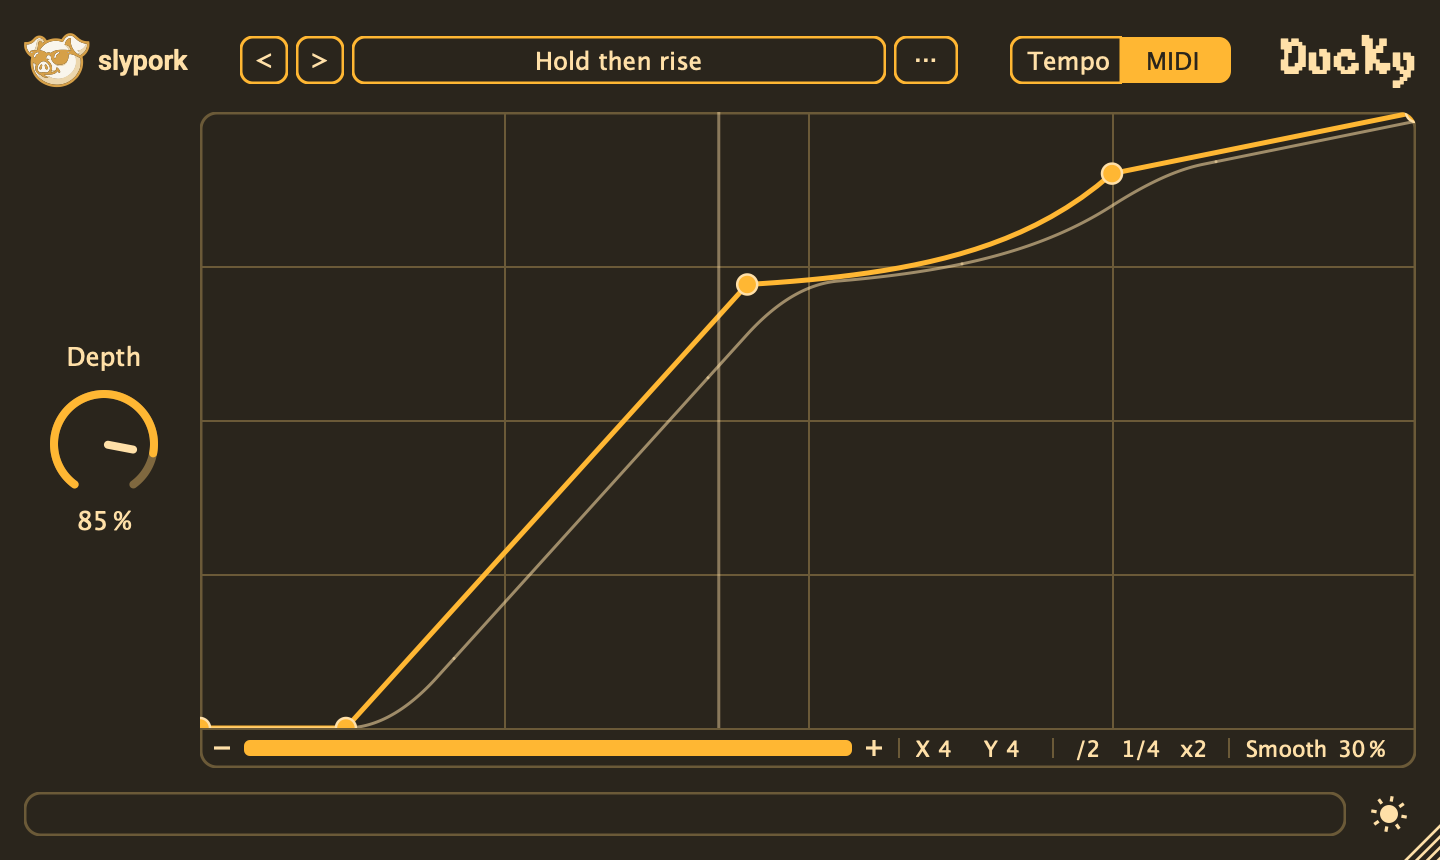
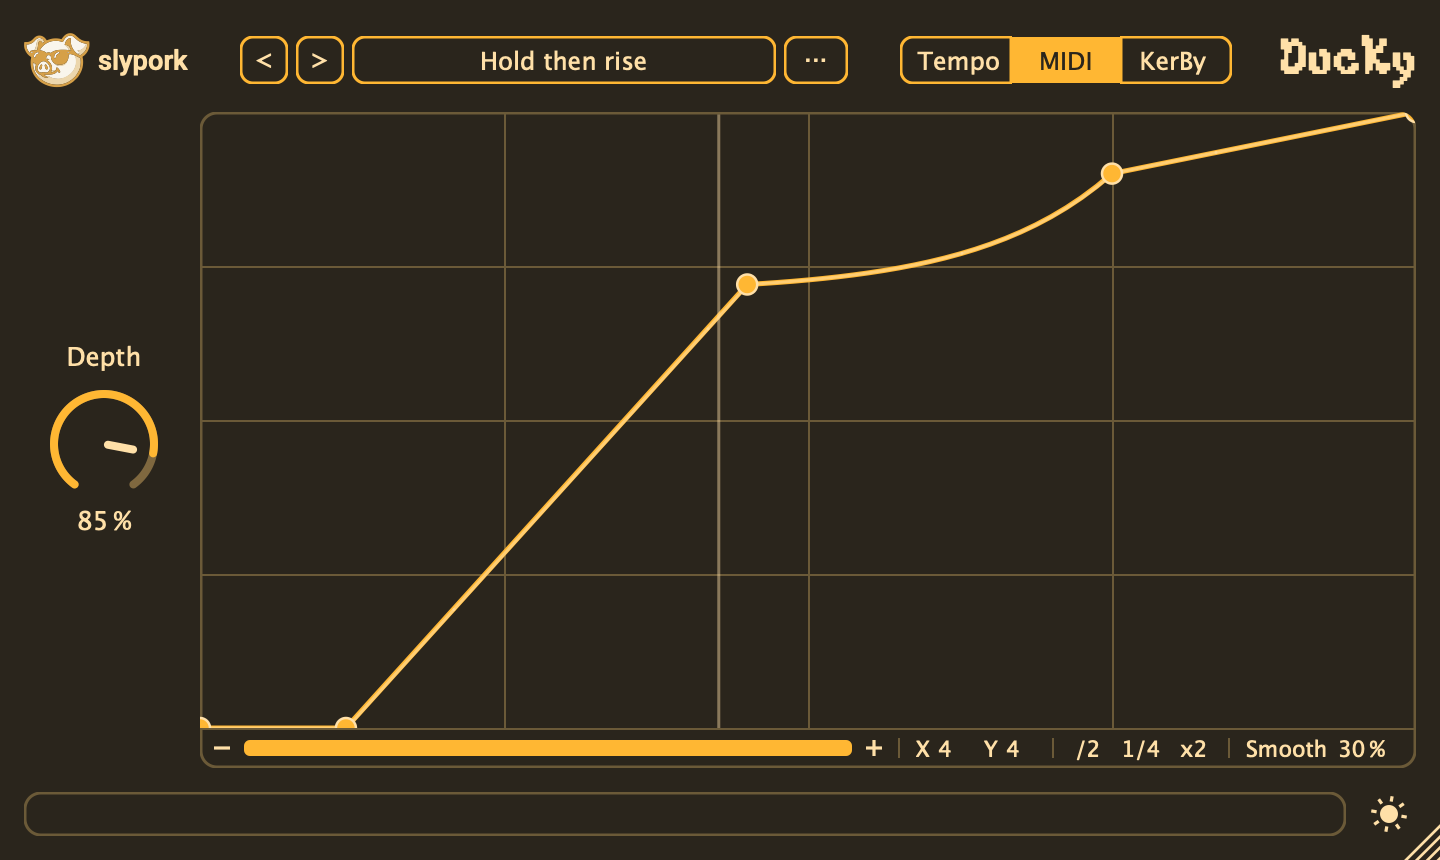
Fresh DucKy captures: the KerBy trigger, the playhead inside the border

diff --git a/plugins/index.html b/plugins/index.html
@@ -105,10 +105,10 @@
                     <a href="../ducky/" class="plugins-kerby-card">
                         <div class="plugins-kerby-shot">
                             <img src="../assets/images/software/DucKy_lightmode.png" width="1440" height="860"
-                                alt="DucKy: a drawn duck shape fills the plot, with the Depth knob beside it and Tempo and MIDI at the top."
+                                alt="DucKy: a drawn duck shape fills the plot, with the Depth knob beside it and Tempo, MIDI and KerBy at the top."
                                 class="dark:hidden">
                             <img src="../assets/images/software/DucKy_darkmode.png" width="1440" height="860"
-                                alt="DucKy in its dark theme: a drawn duck shape fills the plot, with the Depth knob beside it and Tempo and MIDI at the top."
+                                alt="DucKy in its dark theme: a drawn duck shape fills the plot, with the Depth knob beside it and Tempo, MIDI and KerBy at the top."
                                 class="hidden dark:block">
                         </div>
                         <div class="plugins-kerby-text">

diff --git a/ducky/index.html b/ducky/index.html
@@ -115,7 +115,7 @@
                                     srcset="/assets/images/software/DucKy_darkmode.png">
                                 <img src="/assets/images/software/DucKy_lightmode.png" width="1440" height="860"
                                     fetchpriority="high"
-                                    alt="DucKy: a drawn duck shape fills the plot, with the Depth knob beside it, Tempo and MIDI at the top, and Duck Rate and Smooth along the plot’s bottom edge.">
+                                    alt="DucKy: a drawn duck shape fills the plot, with the Depth knob beside it, Tempo, MIDI and KerBy at the top, and Duck Rate and Smooth along the plot’s bottom edge.">
                             </picture>
                         </a>
                         <figcaption><span>Click to take a closer look <span aria-hidden="true">↑</span></span>
